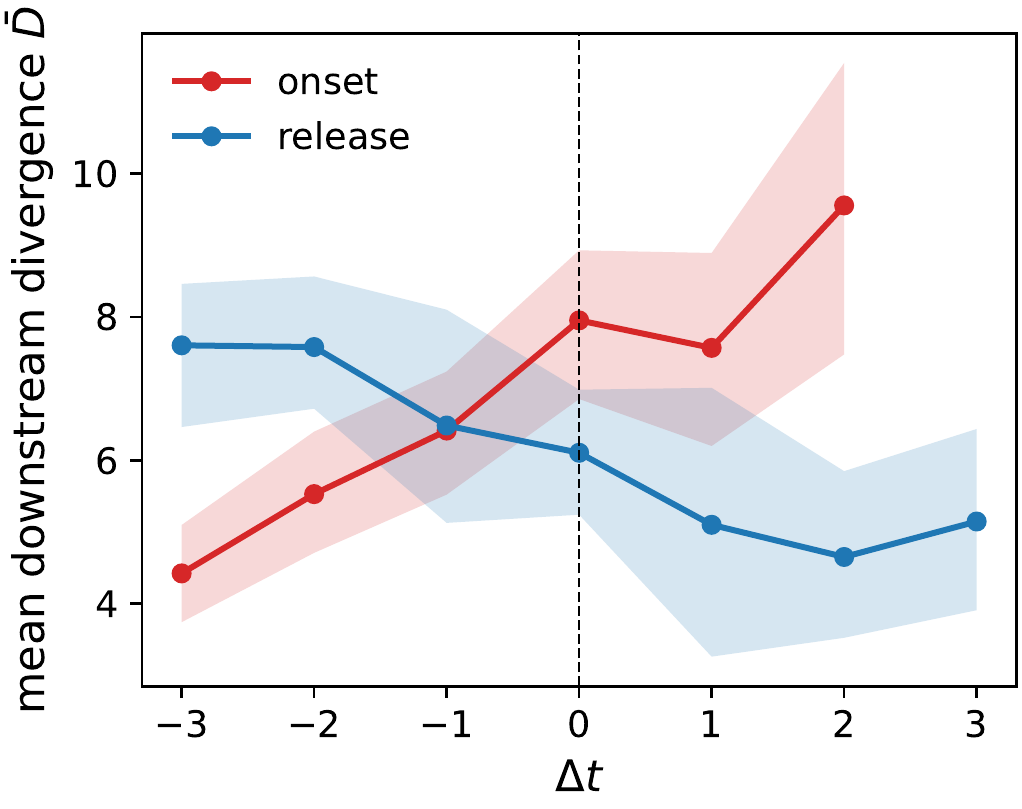
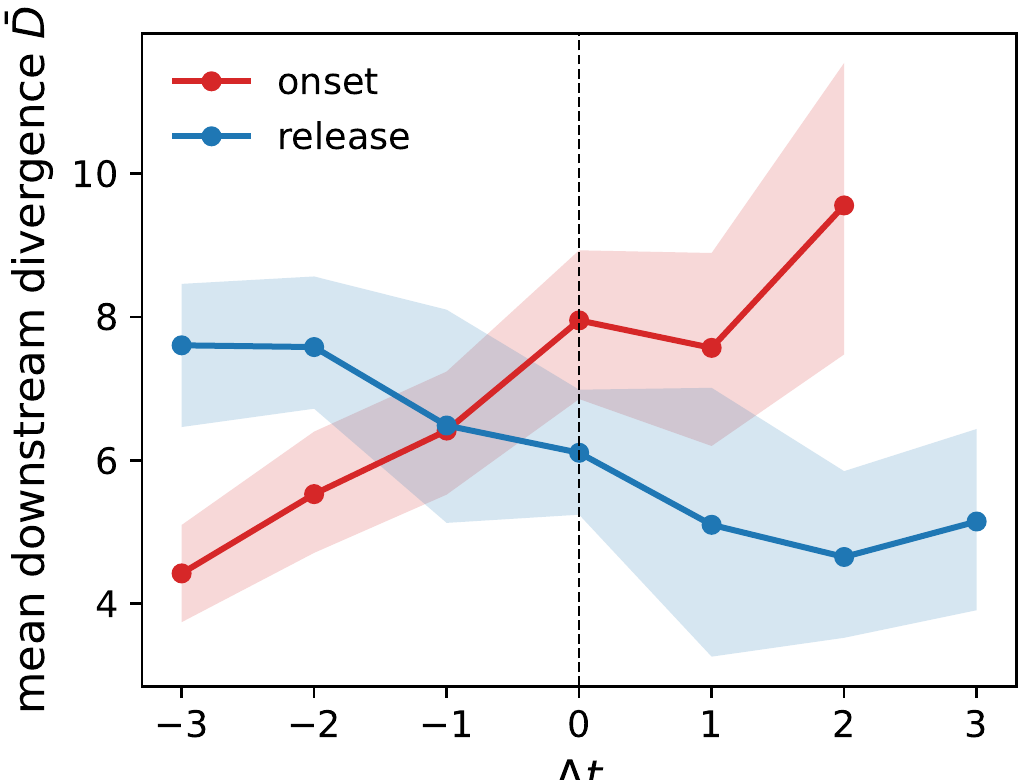
Lead project page with model continuation

diff --git a/docs/index.html b/docs/index.html
@@ -90,8 +90,8 @@
         letter-spacing: -.04em;
       }
       p { margin: 0 0 1.15rem; }
-      .abstract p, .method-copy, .method-copy p, .result-copy, .result-copy p, .qualitative-copy { color: var(--muted); }
-      .abstract p:last-child, .method-copy p:last-child, .result-copy p:last-child, .qualitative-copy p:last-child { margin-bottom: 0; }
+      .abstract p, .method-copy, .method-copy p, .result-copy, .result-copy p { color: var(--muted); }
+      .abstract p:last-child, .method-copy p:last-child, .result-copy p:last-child { margin-bottom: 0; }
       strong { color: var(--text); }
 
       figure { margin: 2rem 0 0; }
@@ -116,13 +116,6 @@
       .intervention-grid .figure-surface { padding: .55rem; }
       .intervention-grid figcaption { font-size: .83rem; }
       .method-copy { margin-top: 1.85rem; }
-      .method-note {
-        margin-top: 1.3rem !important;
-        padding-left: 1rem;
-        border-left: 2px solid #888b90;
-        color: var(--text) !important;
-        font-size: .97rem;
-      }
 
       .results-figures {
         display: grid;
@@ -213,9 +206,7 @@
 
       <section class="abstract" id="abstract">
         <h2>Abstract</h2>
-        <p>Video world models are increasingly used as learned simulators for robot manipulation, but a model that predicts its own rollout well is not necessarily a model that responds correctly to small changes in the state it is predicting from. We study this distinction around physical contact transitions in iVideoGPT, an autoregressive video world model, using a simulator-grounded causal intervention: we restore an exact simulator state, apply a small, calibrated physical perturbation to the manipulated object, and compare the two resulting model rollouts.</p>
-        <p>Natural rollout error shows a distinguishable signature at contact release, but not onset, after controlling for a ceiling confound. A matched causal test at a fixed offset before each transition finds the same asymmetry causally: the release-approach effect independently replicates and survives restriction to transition-isolated windows, while the analogous onset effect fails independent replication. A final event-centred experiment sweeps the intervention across seven offsets and finds that local sensitivity rises smoothly through onset and falls smoothly through release.</p>
-        <p>Qualitative and tracker-based analyses show that the associated pixel and object-position differences are real, object-localized, and graded with the causal-sensitivity result. Predictive sensitivity around physical interaction is temporally structured and directionally asymmetric between contact onset and release, a distinction plain rollout-error metrics do not by themselves reveal.</p>
+        <p>We study how iVideoGPT changes its predicted continuation after a millimetre-scale perturbation to a robot-pushing state. At contact onset and release, we restore an exact simulator state, shift only the manipulated cube, hold the remaining prefix and future actions fixed, and compare the two generated futures. Sensitivity rises through onset and falls through release. At a fixed pre-event offset, the release-approach effect independently replicates, whereas the analogous onset estimate does not. This exposes temporal structure that nominal rollout error alone does not reveal.</p>
       </section>
 
       <section id="method">
@@ -236,9 +227,12 @@
           </figure>
         </div>
         <div class="method-copy">
-          <p>The two frames are tokenized and placed into otherwise identical autoregressive prefixes. The other context frames and every future action are the same in both branches. iVideoGPT then greedily generates three future frames per prefix; mean token-Hamming divergence across those futures is the local predictive-sensitivity score.</p>
-          <p class="method-note">The intervention is grounded in the simulator at the input frame, while the divergent continuations are generated by the video world model.</p>
+          <p>The raw-difference map makes the small, localized input change visible; the displacement is calibrated to alter 2-5 of the 16 injection tokens. The two frames are then tokenized and placed into otherwise identical autoregressive prefixes. iVideoGPT greedily generates three future frames per prefix, and mean token-Hamming divergence across those futures is the local predictive-sensitivity score.</p>
         </div>
+        <figure class="generated-example">
+          <div class="figure-surface"><img src="assets/release-dt-minus3.png" alt="Decoded high-sensitivity release continuation from original and perturbed prefixes with a raw-difference row"></div>
+          <figcaption><strong>Decoded continuation at release, &Delta;t = -3.</strong> Rows A and B are iVideoGPT continuations generated from the original and perturbed prefixes; red overlays mark one fixed raw-difference threshold. This is the higher-sensitivity release example used in the analysis.</figcaption>
+        </figure>
       </section>
 
       <section id="results">
@@ -259,15 +253,6 @@
           <p class="stat">Combined coefficient: beta = +2.53, 95% episode-cluster CI [+1.61, +3.53].</p>
           <p>The analogous onset estimate does not independently replicate at that fixed offset. The full sweep explains the contrast: this offset lies on the lower side of onset's rising profile and the higher side of release's falling profile.</p>
         </div>
-      </section>
-
-      <section id="qualitative-results">
-        <h2>Qualitative Results</h2>
-        <p class="qualitative-copy">The decoded continuations make the sensitivity score visible. In these release examples, the branch with greater token divergence has larger localized changes around the cube and gripper. Red overlays use one fixed raw-difference threshold.</p>
-        <figure>
-          <div class="figure-surface"><img src="assets/release-rollouts.png" alt="Decoded release rollouts for original and perturbed prefixes with a raw-difference overlay row"></div>
-          <figcaption><strong>Decoded release rollouts.</strong> Rows A and B are continuations generated from the original and perturbed prefixes. The tracker supports the same relationship in aggregate: greater token divergence accompanies greater predicted object displacement.</figcaption>
-        </figure>
       </section>
 
       <section id="citation">
